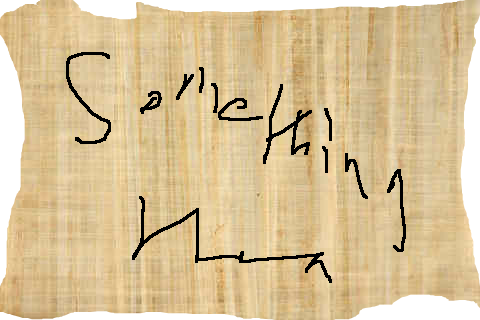
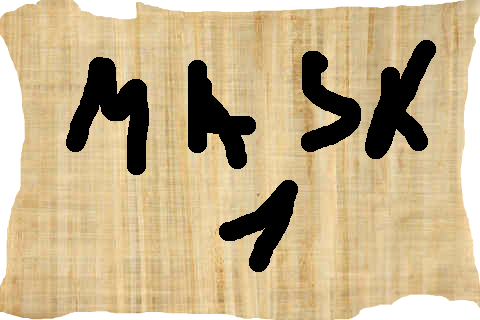
Switching buttons added.

diff --git a/HiddenStory/src/justaconcept/HiddenStory/main/TouchManager.java b/HiddenStory/src/justaconcept/HiddenStory/main/TouchManager.java
@@ -2,8 +2,8 @@ package justaconcept.HiddenStory.main;
 
 import java.util.HashMap;
 
-import justaconcept.HiddenStory.test.Platform;
 import processing.core.PApplet;
+import processing.core.PImage;
 
 public class TouchManager extends ObjectManager {
     boolean is_pressed = false;
@@ -12,36 +12,21 @@ public class TouchManager extends ObjectManager {
 	super(p_, scene_objects_);
     }
     
-    
-    private GameState.Control getControlButton() {
-	if (Constants.BACKWARD_BTN_POS.holdsPoint(p_.mouseX, p_.mouseY)) 
-	    return GameState.Control.backward;
-	else if (Constants.FORWARD_BTN_POS.holdsPoint(p_.mouseX, p_.mouseY))
-	    return GameState.Control.forward;
-	else if (Constants.RESET_BTN_POS.holdsPoint(p_.mouseX, p_.mouseY))
-	    return GameState.Control.reset;
-	else 
-	    return GameState.Control.none;
-    }
-    
     @Override 
     void update(int delta_time)  {
 	
 	if (p_.mousePressed) {
-	    GameState.Control control_called = GameState.Control.none;
 	    // Call a button if there is a click (not hold)
 	    if (!is_pressed && p_.mousePressed) {
-		control_called = getControlButton();
+		scene_objects_.get(Constants.BTN_OBJ_STR).touch(p_.mouseX - LayoutManager.getGame_X(), p_.mouseY - LayoutManager.getGame_Y() );
 	    }
-	    // Call an event if touch.
-	    if (control_called == GameState.Control.none) {
-		
+	    // Invoke touching if buttons is not present.
+	    if (GameState.control == GameState.Control.none) {
+		scene_objects_.get(Constants.PPR_OBJ_STR).touch(p_.mouseX - LayoutManager.getGame_X(), p_.mouseY - LayoutManager.getGame_Y() );
 	    }
 	    
 	}
 	
 	is_pressed = p_.mousePressed;
     }
-    
-    
 }

diff --git a/HiddenStory/src/justaconcept/HiddenStory/main/Buttons.java b/HiddenStory/src/justaconcept/HiddenStory/main/Buttons.java
@@ -8,9 +8,36 @@ import processing.core.PImage;
  * This class is responsible for drawing a background object that fills the space behind the board.
  */
 public class Buttons extends SceneObject {
-
+    private final int BUTTON_DIM = 50;
+    private final Rectangle BACKWARD_BTN_POS;
+    private final Rectangle FORWARD_BTN_POS;
+    private final PImage backward_button;
+    private final PImage forward_button;
+    
     Buttons(final PApplet p_) {
 	super(p_);
+	BACKWARD_BTN_POS = new Rectangle(0,  0, BUTTON_DIM, BUTTON_DIM);
+	FORWARD_BTN_POS = new Rectangle(480 - BUTTON_DIM, 320 - BUTTON_DIM, BUTTON_DIM, BUTTON_DIM);
+	backward_button = p_.loadImage(Sources.BACKWARD_BUTTON);
+	forward_button = p_.loadImage(Sources.FORWARD_BUTTON);
     }
     
+    private GameState.Control getControlButton(int mouse_x, int mouse_y) {
+	if (BACKWARD_BTN_POS.holdsPoint(mouse_x, mouse_y)) 
+	    return GameState.Control.backward;
+	if (FORWARD_BTN_POS.holdsPoint(mouse_x, mouse_y))
+	    return GameState.Control.forward; 
+	return GameState.Control.none;
+    }   
+    
+    @Override
+    void touch(int mouse_x, int mouse_y) {
+	GameState.control = getControlButton(mouse_x, mouse_y);
+    }
+    
+    @Override
+    void draw() {
+	p_.image(backward_button, BACKWARD_BTN_POS.x_, BACKWARD_BTN_POS.y_);
+	p_.image(forward_button, FORWARD_BTN_POS.x_, FORWARD_BTN_POS.y_);
+    }
 }

diff --git a/HiddenStory/src/justaconcept/HiddenStory/main/HiddenStory.java b/HiddenStory/src/justaconcept/HiddenStory/main/HiddenStory.java
@@ -44,14 +44,19 @@ public class HiddenStory extends PApplet {
 	orientation(LANDSCAPE);
 	size(Platform.getScreenWidth(), Platform.getScreenHeight());
 	
-	Platform.loadGameState(this);
+	Platform.loadGameState();
 	loadWorkingMask();
 	
 	time_manager = new TimeManager(this, Constants.FRAMERATE);
 		
 	scene_objects = new HashMap<String, SceneObject>();
 	scene_objects.put(Constants.BG_OBJ_STR, new BackgroundGraphic(this));
-	scene_objects.put(Constants.PPR_OBJ_STR, new DynamicPaper(this, GameState.working_mask));
+	BasicPaper current_paper;
+	if (GameState.current_paper == GameState.latest_paper) 
+	    current_paper = new DynamicPaper(this, GameState.working_mask);
+	else 
+    	    current_paper = new StaticPaper(this, GameState.current_paper);
+	scene_objects.put(Constants.PPR_OBJ_STR, current_paper);
 	scene_objects.put(Constants.BTN_OBJ_STR, new Buttons(this));
 	
 	drawing_manager = new DrawingManager(this, scene_objects);
@@ -67,9 +72,9 @@ public class HiddenStory extends PApplet {
 
     public void draw() {
 	time_manager.update();
-	drawing_manager.update(time_manager.getDelta_());
 	update_manager.update(time_manager.getDelta_());
 	touch_manager.update(time_manager.getDelta_());
+	drawing_manager.update(time_manager.getDelta_());
     }
 	// Draw the stuff if necessary.
 	

diff --git a/HiddenStory/src/justaconcept/HiddenStory/main/UpdateManager.java b/HiddenStory/src/justaconcept/HiddenStory/main/UpdateManager.java
@@ -12,6 +12,25 @@ public class UpdateManager extends ObjectManager {
     }
     
     @Override void update(int delta_time)  {
-		
+	if (GameState.control == GameState.Control.backward) {
+	    if (GameState.current_paper > 1) {
+		GameState.current_paper--;
+		scene_objects_.remove(Constants.PPR_OBJ_STR);
+		scene_objects_.put(Constants.PPR_OBJ_STR, new StaticPaper(p_, GameState.current_paper));
+	    }
+	} else if (GameState.control == GameState.Control.forward) {
+	    if (GameState.current_paper < GameState.latest_paper) {
+		GameState.current_paper++;
+		scene_objects_.remove(Constants.PPR_OBJ_STR);
+	    } 
+	    if (GameState.current_paper < GameState.latest_paper) {
+		scene_objects_.put(Constants.PPR_OBJ_STR, new StaticPaper(p_, GameState.current_paper));
+	    } else {
+		scene_objects_.put(Constants.PPR_OBJ_STR, new DynamicPaper(p_, GameState.working_mask));
+	    }
+	} else if (GameState.control == GameState.Control.reset) {
+	    
+	}
+	GameState.control = GameState.Control.none;
     }
 }

diff --git a/HiddenStory/src/justaconcept/HiddenStory/main/Constants.java b/HiddenStory/src/justaconcept/HiddenStory/main/Constants.java
@@ -12,10 +12,5 @@ public class Constants {
     static final String PPR_OBJ_STR = "paper_object";
     static final String BTN_OBJ_STR = "buttons_object";
     
-    static final int SCENE_COUNT = 10;
-    
-    private static final int BUTTON_DIM = 50;
-    static final Rectangle BACKWARD_BTN_POS = new Rectangle(0, 0, BUTTON_DIM, BUTTON_DIM);
-    static final Rectangle FORWARD_BTN_POS = new Rectangle(480 - BUTTON_DIM, 320 - BUTTON_DIM, BUTTON_DIM, BUTTON_DIM);
-    static final Rectangle RESET_BTN_POS = new Rectangle(480 - BUTTON_DIM, 0, BUTTON_DIM, BUTTON_DIM);
+    static final int PAPER_COUNT = 10;
 }

diff --git a/HiddenStory/src/justaconcept/HiddenStory/main/DrawingManager.java b/HiddenStory/src/justaconcept/HiddenStory/main/DrawingManager.java
@@ -22,6 +22,8 @@ public class DrawingManager extends ObjectManager {
     }
     
     @Override void update(int delta_time)  {
+	draw_what = DrawWhat.all;
+	
 	switch (draw_what) {
 	case all:
 	    p_.fill(bg_col);
@@ -29,6 +31,7 @@ public class DrawingManager extends ObjectManager {
 	    scene_objects_.get(Constants.BG_OBJ_STR).draw();
 	    LayoutManager.translateToBoard(p_);
 	    scene_objects_.get(Constants.PPR_OBJ_STR).draw();
+	    scene_objects_.get(Constants.BTN_OBJ_STR).draw();
 	    p_.resetMatrix();
 	case nothing:
 	    break;

diff --git a/HiddenStory/src/justaconcept/HiddenStory/test/Platform.java b/HiddenStory/src/justaconcept/HiddenStory/test/Platform.java
@@ -22,11 +22,10 @@ public class Platform {
 	System.exit(0);
     }
     
-    static public void loadGameState(final PApplet p_) {
+    static public void loadGameState() {
 	GameState.current_paper = 1;
-	GameState.latest_paper = 1;
+	GameState.latest_paper = 3;
 	GameState.burned = false;
-// 	GameState.working_mask = p_.loadImage(Sources.MASK_NAME + p_.toString(current_paper) + Sources.PICTURE_SUFFIX);
     }
     
     static public void saveGameState() {

diff --git a/HiddenStory/src/justaconcept/HiddenStory/main/Sources.java b/HiddenStory/src/justaconcept/HiddenStory/main/Sources.java
@@ -18,5 +18,6 @@ public class Sources {
 	return Sources.MASK_NAME + "_" + p.parseInt(paper_no) + Sources.MASK_SUFFIX;
     }
     
-    
+    final static String FORWARD_BUTTON = "forward_button.png";
+    final static String BACKWARD_BUTTON = "backward_button.png";
 }

diff --git a/HiddenStory/src/justaconcept/HiddenStory/main/Rectangle.java b/HiddenStory/src/justaconcept/HiddenStory/main/Rectangle.java
@@ -19,6 +19,6 @@ public class Rectangle {
     }
     
     public boolean holdsPoint(int x, int y) {
-	return (x >= x_ && y >= y_ && x <= (x_ - width_) && y <- (y_ - height_));
+	return (x >= x_ && y >= y_ && x <= (x_ + width_) && y <= (y_ + height_));
     }
 }
